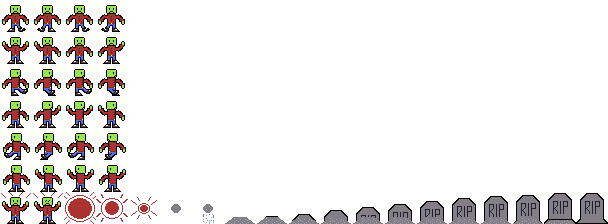
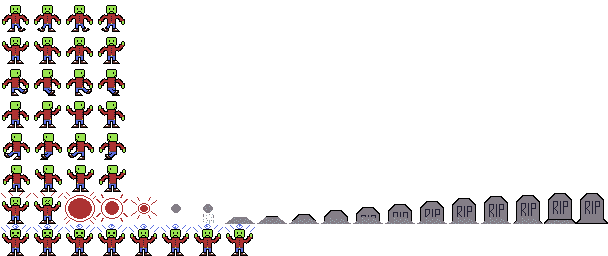
Updated balancing, adjusted laser power-up from kill... to stun

Changed region(s): [[0.0, 0.0, 1.0, 1.0]]

diff --git a/typing_game/src/game.cpp b/typing_game/src/game.cpp
@@ -539,8 +539,16 @@ void Game::update() {
 			auto& zombieTransform = zombie->getComponent<TransformComponent>();
 			auto& transformStatus = zombie->getComponent<TransformStatusComponent>();
 
+			// Update stun status and timer
+			transformStatus.updateStun();
+
+			// If stunned and not transformed, play stun animation (but still allow prompt logic)
+			if (transformStatus.isStunned() && !transformStatus.getTransformed()) {
+				zombie->getComponent<SpriteComponent>().Play("Stun");
+			}
+
 			// Check if zombie is transformed
-			if (!transformStatus.getTransformed()) {
+			if (!transformStatus.getTransformed() && !transformStatus.isStunned()) {
 				// Move zombie toward the player
 				float dx = playerTransform.position.x - zombieTransform.position.x;
 				float dy = playerTransform.position.y - zombieTransform.position.y;
@@ -724,18 +732,19 @@ void Game::update() {
 			for (auto* zombie : zombies) {
 				if (!zombie->getComponent<TransformStatusComponent>().getTransformed()) {
 					if (Collision::AABB(zombie->getComponent<ColliderComponent>().collider, laserCollider.collider)) {
-						// Get zapped, zambie
-						//zombie->getComponent<SpriteComponent>().setTex("assets/Tombstone.png");
-						auto& sprite = zombie->getComponent<SpriteComponent>();
+						
+						// Get zapped, zambie (stuns the zombie, making it unable to move or attack for 5 seconds)
+						auto& status = zombie->getComponent<TransformStatusComponent>();
+						if (!status.isStunned()) {
+							auto& sprite = zombie->getComponent<SpriteComponent>();
+							sprite.Play("Stun");
 
-						sprite.Play("Defeat");
-						zombie->getComponent<TransformStatusComponent>().setTransformed(true);
-						tombstones.push_back(zombie);
-						zombieCount--;
-						// Include this or no?
-						zombiesDefeated++;
+							status.setStunned(true, 300); // 5 seconds at 60 FPS
+						}
 					}
-					// Update next target after laser powerup touches zombie
+
+					/*
+					* 					// Update next target after laser powerup touches zombie
 					if (zombie == zombies[currentZombieIndex]) {
 						float closestDistance = std::numeric_limits<float>::max();
 						size_t closestZombieIndex = currentZombieIndex;
@@ -758,6 +767,8 @@ void Game::update() {
 						if (currentZombieIndex < zombies.size())
 							targetText = words[currentZombieIndex];
 					}
+					*/
+
 				}
 			}
 
@@ -1018,7 +1029,7 @@ void Game::update() {
 				bonusZombiesDefeated++;
 
 				// Rewards HP that will be added to barrierHP after results screen
-				bonusHP += 5;
+				bonusHP += 10;
 
 				// Clear user input
 				userInput.clear();
@@ -1153,7 +1164,7 @@ void Game::update() {
 					bonusZombiesDefeated++;
 
 					// Restore some HP or... add this at the results screen...
-					bonusHP += 5;
+					bonusHP += 10;
 
 					// Clear user input
 					userInput.clear();
@@ -2057,7 +2068,8 @@ void Game::clean()
 // To set up next level of arcade mode
 void Game::nextLevel()
 {
-	if (level % 2 == 0 && !inBonusStage) {
+	// Go to bonus stage every ten rounds
+	if (level % 10 == 0 && !inBonusStage) {
 		gameState = GameState::BONUS_TITLE; // Transition to bonus title screen
 		inBonusStage = true;
 		return;
@@ -2201,12 +2213,12 @@ void Game::nextLevel()
 	levelCorrectLetters = 0;
 	levelTotalLetters = 0;
 
-	// Increase zambie speed!! Also decrease slightly every 10 levels...
+	// Increase zambie speed!!
 	speed += 0.1f;
 
-	// Lower speed a bit every 10 levels
+	// Reset speed every 10 levels
 	if (level % 10 == 0) {
-		speed -= 0.5f;
+		speed = 0.5f;
 	}
 
 	// Increment level

diff --git a/typing_game/src/ECS/SpriteComponent.h b/typing_game/src/ECS/SpriteComponent.h
@@ -43,6 +43,7 @@ public:
 		Animation walkLeft = Animation(4, 4, 100);
 		Animation attackLeft = Animation(5, 4, 100);
 		Animation defeat = Animation(6, 19, 100, false);
+		Animation stun = Animation(7, 8, 100);
 
 		animations.emplace("Walk Down", walkDown);
 		animations.emplace("Attack Down", attackDown);
@@ -51,7 +52,8 @@ public:
 		animations.emplace("Walk Left", walkLeft);
 		animations.emplace("Attack Left", attackLeft);
 		animations.emplace("Defeat", defeat);
-
+		animations.emplace("Stun", stun);
+		
 		// Laser
 		Animation laser = Animation(0, 3, 80);
 		animations.emplace("Laser", laser);
@@ -142,11 +144,33 @@ public:
 class TransformStatusComponent : public Component {
 public:
 	bool isTransformed = false; // Default to false
+	bool stunned = false;
+	int stunTimer = 0;
 
 	void setTransformed(bool status) {
 		isTransformed = status;
 	}
+
 	bool getTransformed() const {
 		return isTransformed;
 	}
+
+	void setStunned(bool value, int duration = 0) {
+		stunned = value;
+		stunTimer = duration;
+	}
+
+	bool isStunned() const {
+		return stunned;
+	}
+
+	void updateStun() {
+		if (stunned && stunTimer > 0) {
+			stunTimer--;
+			if (stunTimer == 0) {
+				stunned = false;
+			}
+		}
+	}
+
 };

diff --git a/typing_game/src/game.h b/typing_game/src/game.h
@@ -119,7 +119,7 @@ private:
 	// Laser power up
 	//Entity* laser = nullptr;
 	bool laserActive = false;
-	float laserSpeed = 1.5f; // may need to adjust
+	float laserSpeed = 2.0f; // may need to adjust
 
 	// Zombie speed!!
 	float speed = 0.5f; // How fast the zombies move towards the player
@@ -176,7 +176,7 @@ private:
 	int bonusLevel = 0;
 	bool inBonusStage = false;
 	bool leftGroupDefeated = false;
-	float bonusSpeed = 2.0f;
+	float bonusSpeed = 3.0f;
 	int bonusZombiesDefeated;
 	int totalBonusZombies;
 	std::string totalBonusZombiesDefeated;
